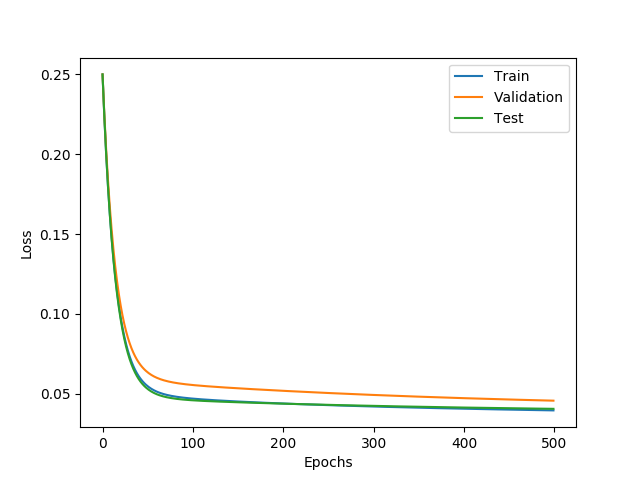
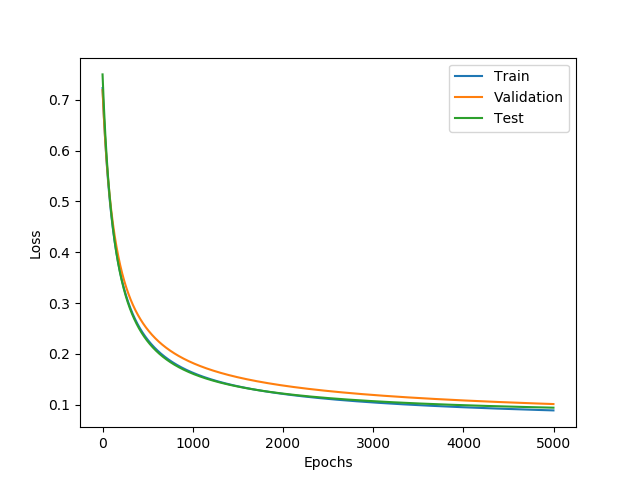
part2

diff --git a/a1/code/starter.py b/a1/code/starter.py
@@ -3,16 +3,18 @@ import numpy as np
 from numpy.linalg import inv
 import matplotlib.pyplot as plt
 import time
+
+
 def loadData():
-    with np.load('notMNIST.npz') as data :
-        Data, Target = data ['images'], data['labels']
+    with np.load('notMNIST.npz') as data:
+        Data, Target = data['images'], data['labels']
         posClass = 2
         negClass = 9
-        dataIndx = (Target==posClass) + (Target==negClass)
-        Data = Data[dataIndx]/255.
+        dataIndx = (Target == posClass) + (Target == negClass)
+        Data = Data[dataIndx] / 255.
         Target = Target[dataIndx].reshape(-1, 1)
-        Target[Target==posClass] = 1
-        Target[Target==negClass] = 0
+        Target[Target == posClass] = 1
+        Target[Target == negClass] = 0
         np.random.seed(421)
         randIndx = np.arange(len(Data))
         np.random.shuffle(randIndx)
@@ -22,43 +24,85 @@ def loadData():
         testData, testTarget = Data[3600:], Target[3600:]
     return trainData, validData, testData, trainTarget, validTarget, testTarget
 
+
 def MSE(W, b, x, y, reg):
     try:
-        x = x.reshape(x.shape[0], x.shape[1]*x.shape[1])
+        x = x.reshape(x.shape[0], x.shape[1] * x.shape[1])
     except:
         print("nothing")
     ones = np.ones((x.shape[0], 1)).squeeze()
-    y_est = (x.dot(W) + b*ones).squeeze()
+    y_est = (x.dot(W) + b * ones).squeeze()
     y = y.squeeze()
-    error = ((y - y_est).dot((y - y_est)) + 1*reg/2*(W.squeeze().dot(W.squeeze())))/x.shape[0]
+    error = ((y - y_est).dot((y - y_est)) + 1 * reg / 2 * (W.squeeze().dot(W.squeeze()))) / x.shape[0]
     return error
+
+
 def gradMSE(W, b, x, y, reg):
-    x = x.reshape(x.shape[0], x.shape[1] * x.shape[1]) # flattens the second and third dimensions
+    x = x.reshape(x.shape[0], x.shape[1] * x.shape[1])  # flattens the second and third dimensions
     ones = np.ones((x.shape[0], 1)).squeeze()
     y = y.squeeze()
-    b_grad = (2*ones.dot(x.dot(W) + b*ones - y))/x.shape[0]
-    W_grad = (2*x.T.dot((x.dot(W) + b*ones - y)) + reg*W)/x.shape[0]
+    b_grad = (2 * ones.dot(x.dot(W) + b * ones - y)) / x.shape[0]
+    W_grad = (2 * x.T.dot((x.dot(W) + b * ones - y)) + reg * W) / x.shape[0]
     return b_grad, W_grad
+
+
+def CrossEntropyLoss(w, b, x, y, reg):
+    x = x.reshape(x.shape[0], x.shape[1] * x.shape[1])
+    y = y.squeeze()
+    y = y.astype(int)
+    y = y*2-1
+    N = x.shape[0]
+    d = x.shape[1]
+    I = np.ones(N,)
+    y_est = x.dot(w) + b * I
+    #loss = np.average(y*np.log(1+np.exp(-y_est))+(1-y)*np.log(1+np.exp(y_est))) + reg / 2 * np.linalg.norm(w)
+    loss = np.average(np.log(1+np.exp(-y*y_est)))
+    pass
+    return loss
+
+
+def gradCE(w, b, x, y, reg):
+    x = x.reshape(x.shape[0], x.shape[1] * x.shape[1])
+    y = y.squeeze()
+    y = y.astype(int)
+    N = x.shape[0]
+    d = x.shape[1]
+    I = np.ones(N,)
+    y_est = x.dot(w) + b * I
+    y=y*2-1
+    grad = -y / (1 + np.exp(y_est * y))
+    grad = np.array([grad]).T
+    w_grad = grad * x
+    w_grad = np.average(w_grad,0)
+    b_grad = grad
+    b_grad = np.average(b_grad,0)
+    return b_grad,w_grad
+
+
 def compute_accuracy(W, b, x, y):
     try:
-        x = x.reshape(x.shape[0], x.shape[1]*x.shape[1])
+        x = x.reshape(x.shape[0], x.shape[1] * x.shape[1])
     except:
         print("nothing")
     output = x.dot(W) + b
     output = np.where(output >= 0.5, 1, 0).squeeze()
     accuracy = np.where(output == y.squeeze(), 1, 0).sum()
-    return accuracy/output.shape[0]
-def plot_trend(list_of_data, data_names = ["Train", "Validation", "Test"], data_title = "Accuracy", y_label = "Accuracy"):
+    return accuracy / output.shape[0]
+
+
+def plot_trend(list_of_data, data_names=["Train", "Validation", "Test"], data_title="Accuracy", y_label="Accuracy"):
     x_axis = np.arange(len(list_of_data[0]))
     for data, name in zip(list_of_data, data_names):
-        plt.plot(x_axis, np.array(data), label = name)
+        plt.plot(x_axis, np.array(data), label=name)
     # plt.title(data_title)
     plt.xlabel("Epochs")
     plt.ylabel(y_label)
     plt.legend()
     plt.savefig(data_title + ".png")
     plt.show()
-def grad_descent(W, b, x, y, alpha, epochs, reg, error_tol = 0.0000001, val_data = [], test_data = []):
+
+
+def grad_descent(W, b, x, y, alpha, epochs, reg, error_tol=0.0000001, val_data=[], test_data=[], lossType='MSE'):
     # initialize storage elements
     error_train = []
     acc_train = []
@@ -66,72 +110,77 @@ def grad_descent(W, b, x, y, alpha, epochs, reg, error_tol = 0.0000001, val_data
     acc_valid = []
     error_test = []
     acc_test = []
+    lossTypeDic={'MSE':gradMSE, 'CE':gradCE}
+    errorTypeDic={'MSE':MSE, 'CE':CrossEntropyLoss}
+    loss_func=lossTypeDic[lossType]
+    error_func=errorTypeDic[lossType]
     for epoch in range(0, epochs):
         # compute gradient
-        b_grad, W_grad = gradMSE(W, b, x, y, reg)
+        b_grad, W_grad = loss_func(W, b, x, y, reg)
         # compute training error and accuracy
         accuracy = compute_accuracy(W, b, x, y)
-        epoch_error = (MSE(W, b, x, y, reg))
+        epoch_error = (error_func(W, b, x, y, reg))
         error_train.append(epoch_error)
         acc_train.append(accuracy)
         # compute test and validation error and accuracy
-        error_valid.append(MSE(W, b, val_data[0], val_data[1], reg))
-        error_test.append(MSE(W, b, test_data[0], test_data[1], reg))
+        error_valid.append(error_func(W, b, val_data[0], val_data[1], reg))
+        error_test.append(error_func(W, b, test_data[0], test_data[1], reg))
         acc_valid.append(compute_accuracy(W, b, val_data[0], val_data[1]))
         acc_test.append(compute_accuracy(W, b, test_data[0], test_data[1]))
         # adjust the weight and biases
-        W = W - alpha*W_grad
-        b = b - alpha*b_grad
+        W = W - alpha * W_grad
+        b = b - alpha * b_grad
         # stop the training loop if the error is lower than the error_tolerance
-        if epoch_error <=  error_tol:
+        #print("Epoch error ", epoch_error)
+        if epoch_error <= error_tol:
             break
-    plot_trend([error_train, error_valid, error_test], data_title="Loss of Train, Validation and Test Data with alpha = 0.0005, lambda = 0.5", y_label="Loss")
+    plot_trend([error_train, error_valid, error_test],
+               data_title="Loss of Train, Validation and Test Data with alpha = 0.0005, lambda = 0.5", y_label="Loss")
     plot_trend([acc_train, acc_valid, acc_test])
-    return W,b
+    return W, b
+
 
 def MSE_normalEQ(W, b, x, y):
     x = x.reshape(x.shape[0], x.shape[1] * x.shape[1])
     ones = np.ones((x.shape[0], 1))
     # construct an augmented data matrix that starts with a column of ones
-    x_p = np.concatenate((ones, x), axis = 1)
+    x_p = np.concatenate((ones, x), axis=1)
     W = (np.linalg.inv(x_p.T.dot(x_p)).dot(x_p.T)).dot(y)
     # extract the bias from the augmented weight vector
     b = W[0][0]
     # extract the desired weight vector from the augmented weight vector
     W = W[1:].squeeze()
-    return W,b
+    return W, b
 
-def crossEntropyLoss(W, b, x, y, reg):
-    # Your implementation here
-    pass
-def gradCE(W, b, x, y, reg):
-    # Your implementation here
-    pass
+
 def buildGraph(loss="MSE"):
-	#Initialize weight and bias tensors
-	# tf.set_random_seed(421)
+    # Initialize weight and bias tensors
+    # tf.set_random_seed(421)
     # if loss == "MSE":
     #     b = 3
-	# elif loss == "CE":
+    # elif loss == "CE":
     #     a = 2
     pass
 
 
 trainData, validData, testData, trainTarget, validTarget, testTarget = loadData()
 # print(trainData.shape) # (num of item, length, width)
-W = np.random.randint(1, size=(28*28, ))
-W = np.random.random((28*28, ))
+W = np.random.randint(1, size=(28 * 28,))
+W = np.random.random((28 * 28,))
 b = 0.5
-reg = 0.5
+reg = 0.1
+lossType='CE'
+lossTypeDic={'MSE':gradMSE, 'CE':gradCE}
+loss_func=lossTypeDic[lossType]
 W_ana, b_ana = MSE_normalEQ(W, b, trainData, trainTarget)
 print(compute_accuracy(W_ana, b_ana, trainData, trainTarget))
-print(MSE(W_ana, b_ana, trainData, trainTarget, 0))
-W = np.random.randint(1, size=(28*28, ))
+print(loss_func(W_ana, b_ana, trainData, trainTarget, 0))
+W = np.random.randint(1, size=(28 * 28,))
 b = 0.5
-W, b = grad_descent(W, b, trainData, trainTarget, 0.0005, 500, reg, error_tol = 0.0000001, val_data = [validData, validTarget], test_data=[testData, testTarget])
+W, b = grad_descent(W, b, trainData, trainTarget, 0.0005, 5000, reg, error_tol=0.0000001,
+                    val_data=[validData, validTarget], test_data=[testData, testTarget],lossType='CE')
 print(compute_accuracy(W, b, trainData, trainTarget))
-print(MSE(W, b, trainData, trainTarget, 0))
-
+print(CrossEntropyLoss(W, b, trainData, trainTarget, 0))
 
 # for reg in [0.001, 0.1, 0.5]:
 #     W = np.random.randint(1, size=(28 * 28,))

diff --git a/a1/code/part2.py b/a1/code/part2.py
@@ -1,0 +1,52 @@
+import numpy as np
+
+def CrossEntropyLoss(w, b, x, y, reg):
+    N = x.shape[0]
+    d = x.shape[1]
+    I = np.ones(N)
+    y_est = x.dot(w) + b*I
+    loss = np.average(-y*np.log(y_est)-(I-y)*np.log(I-y_est))+reg/2*np.linalg.norm(w)
+    return loss
+
+
+def gradCE(w, b, x, y, reg):
+    N = x.shape[0]
+    d = x.shape[1]
+    I = np.ones(N)
+    y_est = x.dot(w) + b * I
+    grad=-y/(1+np.exp(y_est*y))
+    grad=np.array([grad]).T
+    grad=-grad*x
+    return grad
+
+def grad_descent(W, b, x, y, alpha=0.005, epochs=5000, reg=0.1, error_tol = 0.0000001, val_data = [], test_data = [],lossType='MSE'):
+    # initialize storage elements
+    error_train = []
+    acc_train = []
+    error_valid = []
+    acc_valid = []
+    error_test = []
+    acc_test = []
+    if lossType=''
+    for epoch in range(0, epochs):
+        # compute gradient
+        b_grad, W_grad = gradMSE(W, b, x, y, reg)
+        # compute training error and accuracy
+        accuracy = compute_accuracy(W, b, x, y)
+        epoch_error = (MSE(W, b, x, y, reg))
+        error_train.append(epoch_error)
+        acc_train.append(accuracy)
+        # compute test and validation error and accuracy
+        error_valid.append(MSE(W, b, val_data[0], val_data[1], reg))
+        error_test.append(MSE(W, b, test_data[0], test_data[1], reg))
+        acc_valid.append(compute_accuracy(W, b, val_data[0], val_data[1]))
+        acc_test.append(compute_accuracy(W, b, test_data[0], test_data[1]))
+        # adjust the weight and biases
+        W = W - alpha*W_grad
+        b = b - alpha*b_grad
+        # stop the training loop if the error is lower than the error_tolerance
+        if epoch_error <=  error_tol:
+            break
+    plot_trend([error_train, error_valid, error_test], data_title="Loss of Train, Validation and Test Data with alpha = 0.0005, lambda = 0.5", y_label="Loss")
+    plot_trend([acc_train, acc_valid, acc_test])
+    return W,b
